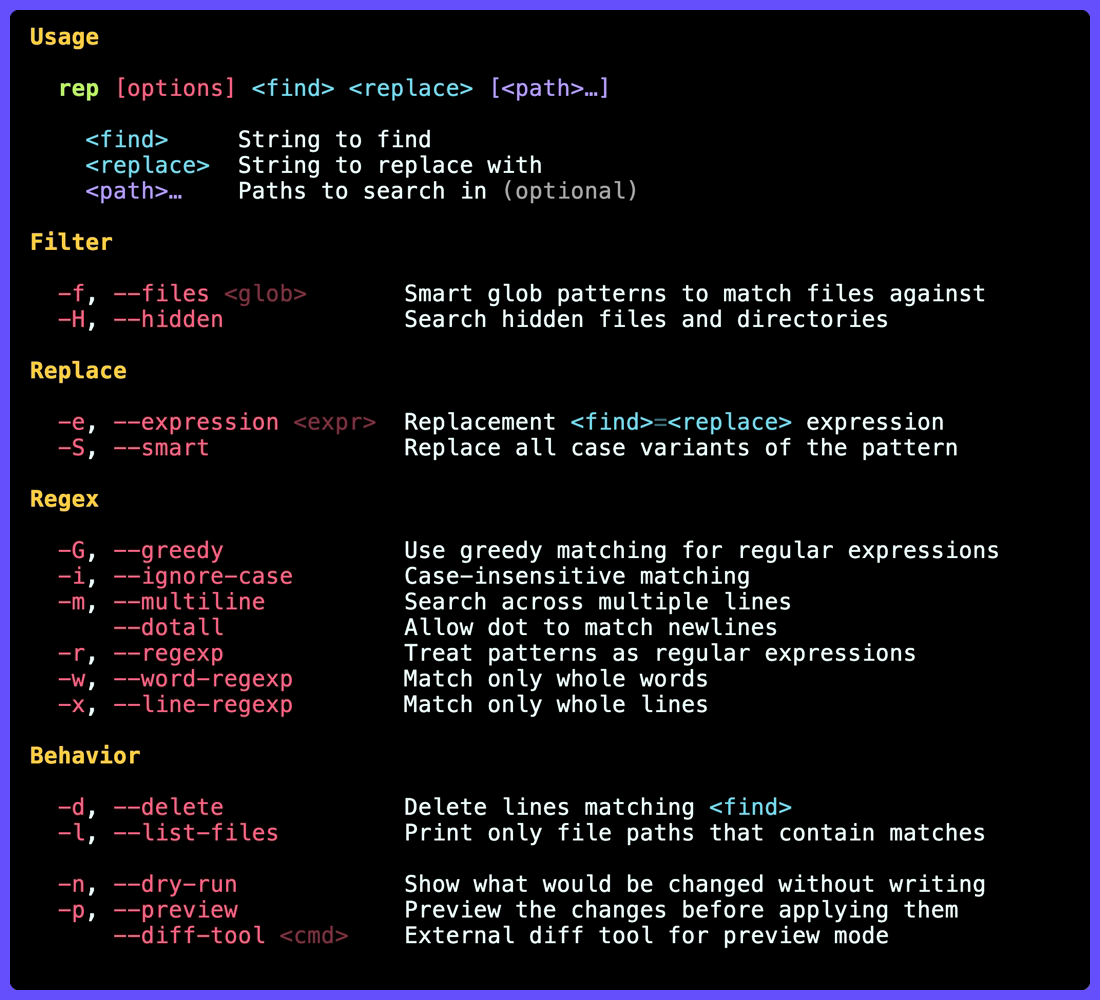
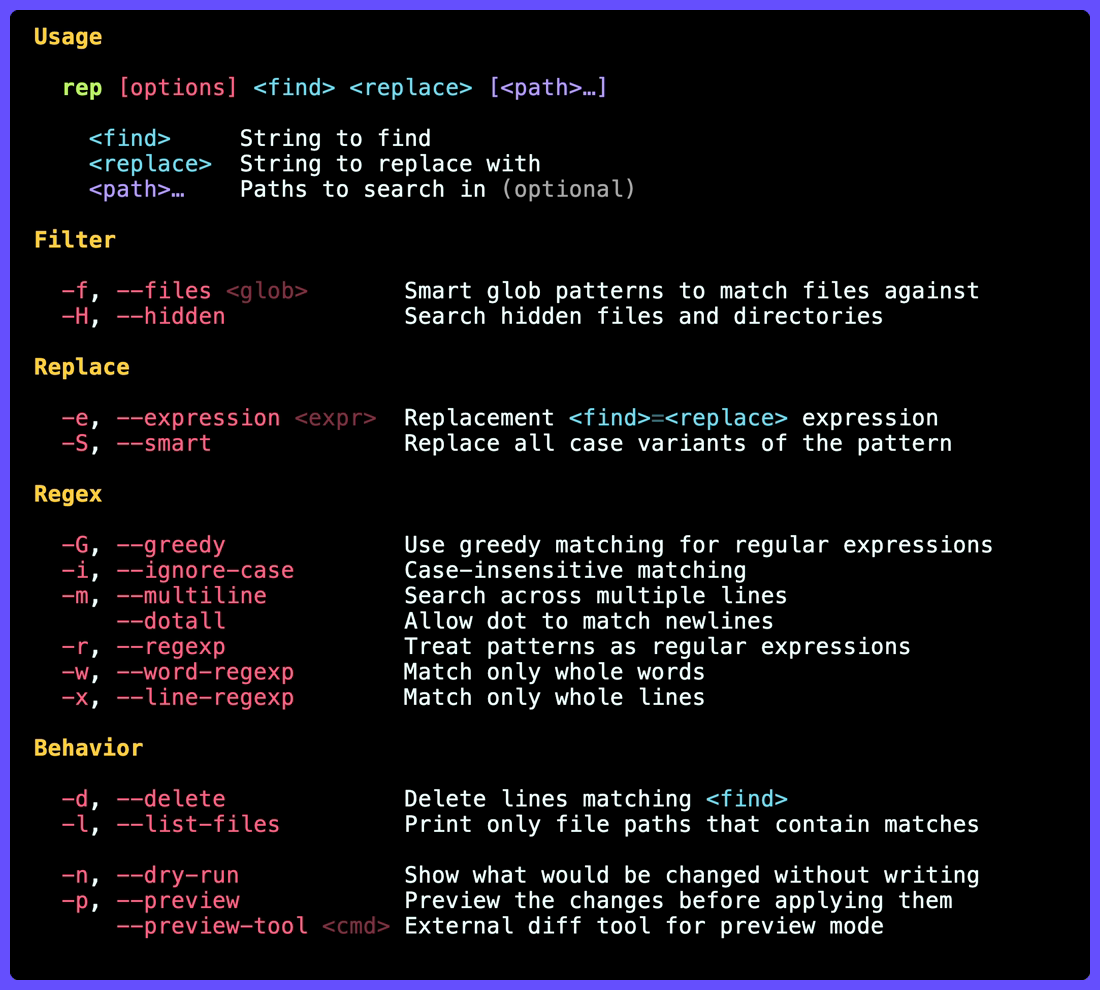
cli: Allow `-d` with `--smart` and `--list-files`

diff --git a/tests/cli.rs b/tests/cli.rs
@@ -251,6 +251,45 @@ fn delete_mode_removes_matching_lines_in_file() {
 }
 
 #[test]
+fn delete_mode_with_smart_removes_all_case_variants() {
+    let dir = tempdir().unwrap();
+    let file = dir.path().join("a.txt");
+    write(
+        &file,
+        "hello_world here\nHelloWorld line\nhelloWorld line\nHELLO_WORLD line\nhello-world line\nkeep me\n",
+    );
+
+    let status = Command::new(REP)
+        .args(["-d", "--smart", "hello_world", "."])
+        .current_dir(dir.path())
+        .status()
+        .unwrap();
+    assert!(status.success());
+    assert_eq!(read(&file), "keep me\n");
+}
+
+#[test]
+fn delete_mode_with_list_files_prints_matching_paths_without_modifying() {
+    let dir = tempdir().unwrap();
+    let a = dir.path().join("a.txt");
+    let b = dir.path().join("b.txt");
+    write(&a, "has foo\nother\n");
+    write(&b, "nothing here\n");
+
+    let output = Command::new(REP)
+        .args(["-d", "-l", "foo", "."])
+        .current_dir(dir.path())
+        .output()
+        .unwrap();
+    assert!(output.status.success());
+    let stdout = String::from_utf8(output.stdout).unwrap();
+    assert!(stdout.contains("a.txt"), "stdout: {stdout:?}");
+    assert!(!stdout.contains("b.txt"), "stdout: {stdout:?}");
+    // File must be untouched - `-l` is informational.
+    assert_eq!(read(&a), "has foo\nother\n");
+}
+
+#[test]
 fn rewrites_file_with_invalid_utf8_preserving_non_utf8_bytes() {
     // Regression: the scan/apply/write path must stay on bytes end-to-end so
     // files containing invalid UTF-8 (e.g. latin-1, binary-adjacent text) are

diff --git a/src/main.rs b/src/main.rs
@@ -78,11 +78,7 @@ struct Cli {
     list_files: bool,
 
     /// Delete lines matching <find>
-    #[arg(
-        short = 'd',
-        long = "delete",
-        conflicts_with_all = ["smart", "list_files"],
-    )]
+    #[arg(short = 'd', long = "delete")]
     delete: bool,
 
     /// Dry run
@@ -260,10 +256,7 @@ impl Cli {
         self.ignore_case |= bool_var("REP_IGNORE_CASE");
         self.regexp |= bool_var("REP_REGEXP");
 
-        // `delete` conflicts with `smart`/`list_files`; don't let env re-introduce them.
-        if !self.delete && !self.list_files {
-            self.smart |= bool_var("REP_SMART");
-        }
+        self.smart |= bool_var("REP_SMART");
         // `preview` conflicts with `dry_run`; don't let env re-enable preview on a dry-run.
         if !self.dry_run {
             self.preview |= bool_var("REP_PREVIEW");
@@ -872,9 +865,17 @@ mod tests {
     }
 
     #[test]
-    fn test_delete_mode_conflicts_with_smart_flag() {
-        let result = Cli::try_parse_from(["rep", "-d", "-S", "foo"]);
-        assert!(result.is_err());
+    fn test_delete_combines_with_smart_flag() {
+        let cli = Cli::parse_from(["rep", "-d", "-S", "foo_bar"]);
+        assert!(cli.delete);
+        assert!(cli.smart);
+    }
+
+    #[test]
+    fn test_delete_combines_with_list_files() {
+        let cli = Cli::parse_from(["rep", "-d", "-l", "foo"]);
+        assert!(cli.delete);
+        assert!(cli.list_files);
     }
 
     #[test]
@@ -921,14 +922,6 @@ mod tests {
         let mut cli = Cli::parse_from(["rep", "-p", "--preview-tool", "diff -u", "foo", "bar"]);
         cli.apply_env_defaults_with(|k| env.get(k).map(|s| (*s).to_owned()));
         assert_eq!(cli.preview_tool.as_deref(), Some("diff -u"));
-    }
-
-    #[test]
-    fn test_env_smart_skipped_when_delete_flag_present() {
-        let env = std::collections::HashMap::from([("REP_SMART", "1")]);
-        let mut cli = Cli::parse_from(["rep", "-d", "foo"]);
-        cli.apply_env_defaults_with(|k| env.get(k).map(|s| (*s).to_owned()));
-        assert!(!cli.smart, "REP_SMART must not re-introduce smart when -d is set");
     }
 
     #[test]

diff --git a/src/expressions.rs b/src/expressions.rs
@@ -210,14 +210,35 @@ fn parse_expressions(cli: &Cli) -> Result<Vec<Expression>> {
 
 fn compile_expression(cli: &Cli, expr: &Expression) -> Result<CompiledExpression> {
     if cli.smart {
-        let (variant_map, pattern) = build_case_variants(&expr.find, &expr.replace);
+        let (variant_map, variant_pattern) = build_case_variants(&expr.find, &expr.replace);
+        // With `-d --smart`, the case-variant alternation becomes the "inner" of
+        // a line-deleting wrapper, and the replacement is always empty.
+        let pattern = if cli.delete {
+            wrap_delete_pattern(&variant_pattern, false)
+        } else {
+            variant_pattern
+        };
         let regex = RegexBuilder::new(&pattern)
+            .multi_line(cli.delete)
             .build()
             .with_context(|| format!("Invalid smart pattern: {}", expr.find))?;
         let bytes_regex = BytesRegexBuilder::new(&pattern)
+            .multi_line(cli.delete)
             .build()
             .with_context(|| format!("Invalid smart pattern: {}", expr.find))?;
-        let matcher = RegexMatcherBuilder::new().build(&pattern)?;
+        let matcher = RegexMatcherBuilder::new()
+            .multi_line(cli.delete)
+            .build(&pattern)?;
+        if cli.delete {
+            return Ok(CompiledExpression {
+                pattern,
+                regex,
+                bytes_regex,
+                matcher,
+                replacer: Box::new(|_: &regex::Captures| String::new()),
+                bulk: BulkReplacer::Literal(String::new()),
+            });
+        }
         let variant_map = std::sync::Arc::new(variant_map);
         let closure_map = std::sync::Arc::clone(&variant_map);
         let replacer = move |caps: &regex::Captures| -> String {